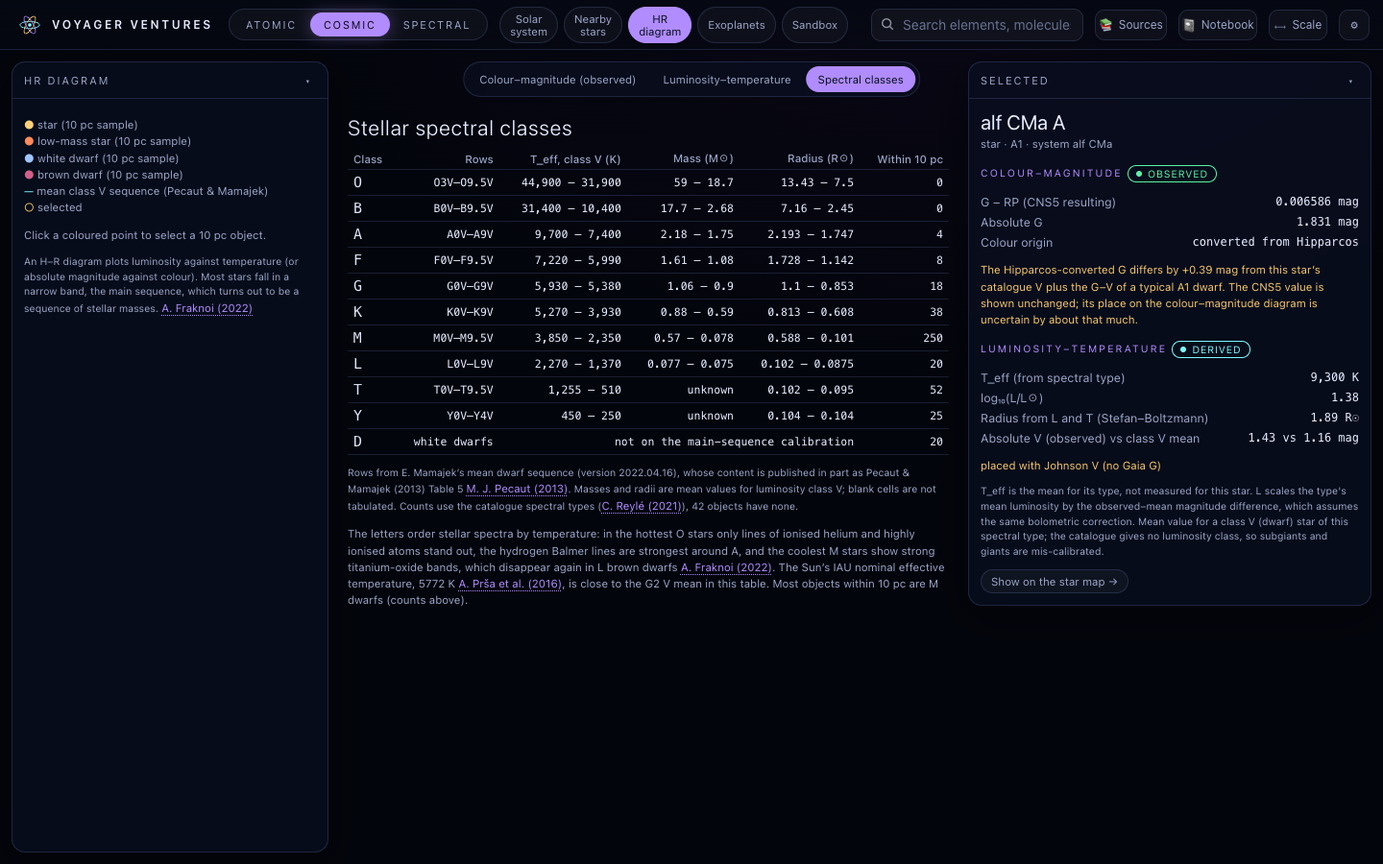
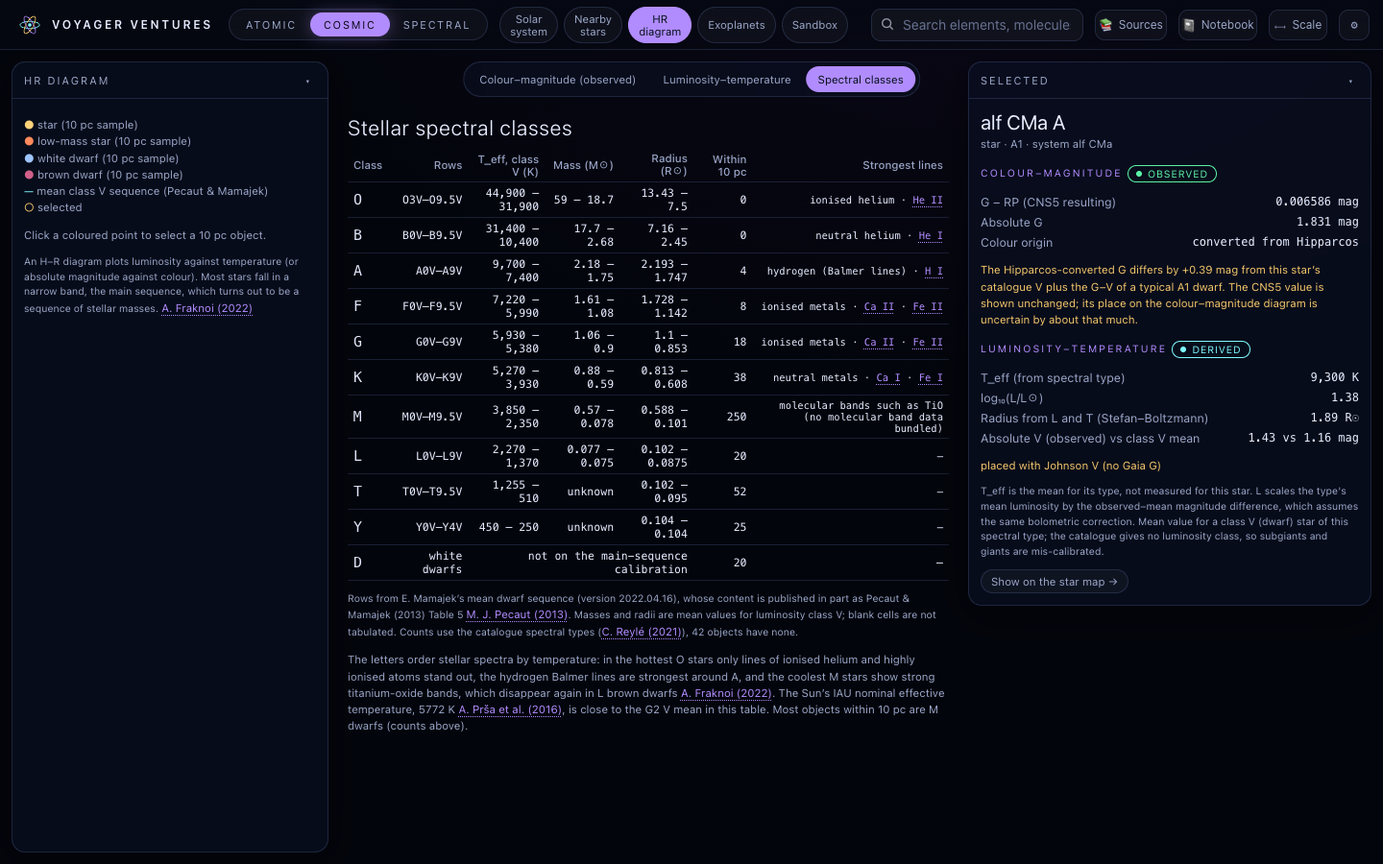
Phase 5 Gate 5.4: stellar spectra, thermal radiation and class-line links
Planck model per star at its class V mean T_eff (λ_max, σT⁴, caveats);
registry: stellar classes O–K → NIST line spectra (OpenStax §17.3),
star → class and star → blackbody edges registered on catalogue load,
shown in both directions (atlas blackbody tab with star=, Lines tab,
class table). RelatedLinks limit/first. 4 science tests, e2e test 57.

Claude-Session: https://claude.ai/code/session_012kk9KUmhZje176cLaiTwHQ

Changed region(s): [[0.25, 0.1556, 0.6875, 0.84]]

diff --git a/src/modes/cosmic/star-systems/StarsView.tsx b/src/modes/cosmic/star-systems/StarsView.tsx
@@ -11,6 +11,9 @@ import { navigate, setQuery, useRoute } from '@/shared/router';
 import { KV, Loading, Panel, ProvenanceBadge } from '@/ui/components';
 import { SourceLinks } from '@/ui/SourcesView';
 import { RelatedLinks } from '@/ui/RelatedLinks';
+import { LinePlot } from '@/ui/plots';
+import { SIGMA_SB, peakWavelength, planckLambda } from '@/core/physics/em/em';
+import { blackbodyRoute, modelTeff } from './starRegistry';
 import { StarScene, type ScenePoint, type StarFrame } from './StarScene';
 import {
   PC_IN_LY, absoluteMag, adsUrl, calibrateDwarf, crossMatch, displayColor, distancePc, distanceRangePc, galacticLB, icrsCartesian,
@@ -33,6 +36,35 @@ function framePos(o: { ra: number | null; dec: number | null; plx: number | null
   if (d === null || o.ra === null || o.dec === null) return null;
   const v = icrsCartesian(o.ra, o.dec, d);
   return frame === 'galactic' ? icrsToGalactic(v) : v;
+}
+
+/** Planck model at the class V mean T_eff (Gate 5.4): a model of the continuum, not the observed spectrum. */
+function ThermalModel({ o }: { o: NearbyObject }) {
+  const T = modelTeff(o);
+  const pts = useMemo(() => {
+    if (T === null) return [] as [number, number][];
+    const lp = peakWavelength(T), peak = planckLambda(lp, T);
+    return Array.from({ length: 160 }, (_, i) => { const l = 0.1e-6 * 10 ** ((i * 2.2) / 159); return [l * 1e6, planckLambda(l, T) / peak] as [number, number]; });
+  }, [T]);
+  if (T === null) return null;
+  const lp = peakWavelength(T);
+  const cls = parseSpectralType(o.spt)?.cls;
+  return (
+    <>
+      <div className="section-title">Thermal radiation model <ProvenanceBadge cls="derived" title="Planck law at the class V mean T_eff (CODATA constants)" /></div>
+      <LinePlot ariaLabel="Blackbody model of this star" width={360} height={150} xLog series={[{ points: pts, color: '#f5c76b' }]} xLabel="vacuum wavelength λ (µm)" yLabel="B_λ / B_λ,max" yDomain={[0, 1.25]} vLines={[{ x: 0.38, label: '380', color: 'rgba(180,140,255,0.6)' }, { x: 0.75, label: '750', color: 'rgba(255,120,120,0.6)' }]} markers={[{ x: lp * 1e6, y: 1, label: `peak ${(lp * 1e9).toFixed(0)} nm` }]} />
+      <dl className="kv" aria-label="Thermal model">
+        <KV k="Model temperature (class V mean T_eff)" v={T} unit="K" sig={4} />
+        <KV k="Peak wavelength λ_max = b/T" v={lp * 1e9} unit="nm" sig={4} />
+        <KV k="Surface flux σT⁴" v={SIGMA_SB * T ** 4} unit="W/m²" sig={4} />
+      </dl>
+      <p className="note" style={{ fontSize: 10.5 }}>Dashed lines mark 380 and 750 nm. A real stellar spectrum is not a blackbody: it carries absorption lines and, in M dwarfs, strong molecular (TiO) bands <SourceLinks ids={['openstax-astronomy-2e']} />. Planck law and constants: <SourceLinks ids={['codata-2018']} />.</p>
+      <div className="chip-row">
+        <button className="chip" onClick={() => navigate(blackbodyRoute(T, o.seq).slice(1))}>Open the {T} K blackbody in the Spectral atlas →</button>
+      </div>
+      {cls && <RelatedLinks id={`stellar-class:${cls}`} title={`Typical lines of class ${cls}`} filter={(r) => r.type === 'absorbs'} />}
+    </>
+  );
 }
 
 function ObjectPanel({ o, all, cns }: { o: NearbyObject; all: NearbyObject[]; cns: CnsStar | undefined }) {
@@ -106,6 +138,8 @@ function ObjectPanel({ o, all, cns }: { o: NearbyObject; all: NearbyObject[]; cn
           <p className="note" style={{ fontSize: 10.5 }}>{cal.exact ? 'Table row' : `Interpolated between ${cal.between!.join(' and ')}`}. {cal.caveats.join(' ')} <SourceLinks ids={['pecaut-mamajek-2013']} /></p>
         </> : <p className="note">Not calibrated: {o.type === 'white dwarf' ? 'the dwarf sequence does not cover white dwarfs' : !spt ? 'no spectral type' : spt.limit ? 'only a bound on the type is known' : spt.subdwarf ? 'subdwarfs (metal-poor) lie below the dwarf sequence' : 'type outside the table'}.</p>}
       </>}
+
+      {o.type !== 'exoplanet' && <ThermalModel o={o} />}
 
       {members.length > 1 && <>
         <div className="section-title">System {o.system} · {members.length} catalogue objects</div>

diff --git a/src/modes/cosmic/star-systems/HrView.tsx b/src/modes/cosmic/star-systems/HrView.tsx
@@ -9,6 +9,7 @@ import { KV, Loading, Panel, ProvenanceBadge } from '@/ui/components';
 import { ScatterPlot, type ScatterPoint } from '@/ui/plots';
 import { SourceLinks } from '@/ui/SourcesView';
 import { DWARF_SEQUENCE, DWARF_SEQUENCE_VERSION, crossMatch, loadCns5, loadTenParsec, parseSpectralType, type CnsStar, type NearbyObject, type ObjectType } from './stars';
+import { CLASS_LINES } from '@/shared/scientific-relationships/registry';
 import { MK_CLASSES, TEFF_SUN_NOMINAL, cmdPoint, convertedGCheck, hrPoint, logLForRadius, type HrStar } from './hr';
 
 const TYPE_COLOR: Record<ObjectType, string> = { star: '#ffd27a', 'low-mass star': '#ff8a5c', 'white dwarf': '#9ec5ff', 'brown dwarf': '#d0608a', exoplanet: '#5cf2a6', unknown: '#888' };
@@ -56,7 +57,7 @@ function SelectedPanel({ o, hr, cns }: { o: NearbyObject; hr: HrStar | { reason:
   );
 }
 
-function ClassTable({ ten }: { ten: NearbyObject[] }) {
+function ClassTable({ ten, hl }: { ten: NearbyObject[]; hl: string | null }) {
   const counts = useMemo(() => {
     const c: Record<string, number> = {};
     for (const o of ten) { if (o.type === 'exoplanet') continue; const p = parseSpectralType(o.spt); const k = p?.kind === 'white-dwarf' ? 'D' : p?.cls ?? '?'; c[k] = (c[k] ?? 0) + 1; }
@@ -65,19 +66,20 @@ function ClassTable({ ten }: { ten: NearbyObject[] }) {
   return (
     <>
       <table className="table-mini" aria-label="Spectral classes" style={{ width: '100%' }}>
-        <thead><tr><th>Class</th><th>Rows</th><th>T_eff, class V (K)</th><th>Mass (M☉)</th><th>Radius (R☉)</th><th>Within 10 pc</th></tr></thead>
+        <thead><tr><th>Class</th><th>Rows</th><th>T_eff, class V (K)</th><th>Mass (M☉)</th><th>Radius (R☉)</th><th>Within 10 pc</th><th>Strongest lines</th></tr></thead>
         <tbody>
           {MK_CLASSES.map((k) => (
-            <tr key={k.cls}>
+            <tr key={k.cls} className={hl === k.cls ? 'active' : ''} style={hl === k.cls ? { background: 'rgba(177,140,255,0.16)' } : undefined}>
               <td style={{ fontFamily: 'var(--mono)', fontSize: 15 }}>{k.cls}</td>
               <td>{k.first}–{k.last}</td>
               <td>{k.teffHot.toLocaleString('en-US')} – {k.teffCool.toLocaleString('en-US')}</td>
               <td>{k.massHi !== null ? `${k.massHi} – ${k.massLo}` : 'unknown'}</td>
               <td>{k.rHi !== null ? `${k.rHi} – ${k.rLo}` : 'unknown'}</td>
               <td>{counts[k.cls] ?? 0}</td>
+              <td style={{ fontSize: 10.5 }}>{CLASS_LINES[k.cls] ? <>{CLASS_LINES[k.cls].note}{CLASS_LINES[k.cls].spectra.map((s) => <span key={s}> · <button className="link-btn" onClick={() => navigate(`/spectral?tab=lines&spec=${encodeURIComponent(s)}`)}>{s}</button></span>)}</> : '—'}</td>
             </tr>
           ))}
-          <tr><td style={{ fontFamily: 'var(--mono)', fontSize: 15 }}>D</td><td>white dwarfs</td><td colSpan={3} className="unknown">not on the main-sequence calibration</td><td>{counts.D ?? 0}</td></tr>
+          <tr><td style={{ fontFamily: 'var(--mono)', fontSize: 15 }}>D</td><td>white dwarfs</td><td colSpan={3} className="unknown">not on the main-sequence calibration</td><td>{counts.D ?? 0}</td><td>—</td></tr>
         </tbody>
       </table>
       <p className="note" style={{ fontSize: 10.5 }}>Rows from E. Mamajek’s mean dwarf sequence (version {DWARF_SEQUENCE_VERSION}), whose content is published in part as Pecaut &amp; Mamajek (2013) Table 5 <SourceLinks ids={['pecaut-mamajek-2013']} />. Masses and radii are mean values for luminosity class V; blank cells are not tabulated. Counts use the catalogue spectral types (<SourceLinks ids={['reyle-2021']} />), {counts['?'] ?? 0} objects have none.</p>
@@ -155,7 +157,7 @@ export default function HrView() {
         </>}
         {d === 'classes' && <>
           <div className="stage-head"><h1>Stellar spectral classes</h1></div>
-          <ClassTable ten={ten} />
+          <ClassTable ten={ten} hl={query.get('cls')} />
         </>}
       </div>
       <Panel id="hr-controls" className="left-panel" title="HR diagram">

diff --git a/tests/science/stars.test.ts b/tests/science/stars.test.ts
@@ -295,3 +295,48 @@ describe('exoplanets within 10 pc', () => {
     expect(Math.max(...r)).toBeCloseTo(3, 9);
   });
 });
+
+// ---------------------------------------------------------------- Gate 5.4: stellar spectra and relationships
+import { registerStars, modelTeff, blackbodyId } from '@/modes/cosmic/star-systems/starRegistry';
+import { CLASS_LINES, NIST_SPECTRA, allEntities, allRelationships, getEntity, relationshipsFrom, relationshipsTo, spectrumId } from '@/shared/scientific-relationships/registry';
+import { getSource } from '@/shared/sources/sources';
+import { peakWavelength } from '@/core/physics/em/em';
+
+describe('stellar spectra and cross-links (Gate 5.4)', () => {
+  registerStars(OBJ);
+  it('class → line edges only point at bundled NIST spectra and follow O→He II, B→He I, A→H I', () => {
+    for (const { spectra } of Object.values(CLASS_LINES)) for (const s of spectra) expect(NIST_SPECTRA, s).toContain(s);
+    expect(relationshipsFrom('stellar-class:O').map((r) => r.to)).toEqual([spectrumId('He II')]);
+    expect(relationshipsFrom('stellar-class:B').map((r) => r.to)).toEqual([spectrumId('He I')]);
+    expect(relationshipsFrom('stellar-class:A').map((r) => r.to)).toEqual([spectrumId('H I')]);
+    expect(relationshipsFrom('stellar-class:M').filter((r) => r.type === 'absorbs')).toHaveLength(0); // TiO bands: no data, no edge
+  });
+  it('every star with a calibrated T_eff links to a Planck model at that temperature, and back', () => {
+    const prox = byName('Proxima Cen');
+    const T = modelTeff(prox)!;
+    expect(T).toBe(2930);
+    const r = relationshipsFrom(`star:${prox.seq}`).find((x) => x.type === 'has-spectrum')!;
+    expect(r.to).toBe(blackbodyId(2930));
+    expect(getEntity(r.to)!.route).toMatch(/#\/spectral\?tab=blackbody&T=2930/);
+    expect(relationshipsTo(blackbodyId(2930)).some((x) => x.from === `star:${prox.seq}`)).toBe(true);
+    expect(relationshipsFrom(`star:${prox.seq}`).some((x) => x.to === 'stellar-class:M')).toBe(true);
+    // a Proxima-like 2930 K blackbody peaks in the near infrared (≈ 989 nm), not in the visible
+    expect(peakWavelength(T) * 1e9).toBeCloseTo(989, 0);
+  });
+  it('white dwarfs and planets get no blackbody model; stars of class G reach Ca II through their class', () => {
+    expect(modelTeff(OBJ.find((o) => o.type === 'white dwarf')!)).toBeNull();
+    expect(modelTeff(OBJ.find((o) => o.type === 'exoplanet')!)).toBeNull();
+    const gStar = OBJ.find((o) => o.spt?.startsWith('G2'))!;
+    expect(relationshipsFrom(`star:${gStar.seq}`).some((r) => r.to === 'stellar-class:G')).toBe(true);
+    expect(relationshipsTo(spectrumId('Ca II')).some((r) => r.from === 'stellar-class:G')).toBe(true);
+  });
+  it('after star registration every edge is sourced, both ends exist and available entities have routes', () => {
+    for (const r of allRelationships()) {
+      expect(getEntity(r.from), r.from).toBeDefined();
+      expect(getEntity(r.to), `${r.from} → ${r.to}`).toBeDefined();
+      if (!r.from.startsWith('reaction:')) expect(getSource(r.source), `${r.from} → ${r.to}: ${r.source}`).toBeDefined();
+    }
+    for (const e of allEntities()) expect(e.status === 'available' ? !!e.route : e.route === null, e.id).toBe(true);
+    expect(allEntities().filter((e) => e.kind === 'star').length).toBeGreaterThan(450);
+  });
+});

diff --git a/src/modes/spectral/atlas/SpectralAtlas.tsx b/src/modes/spectral/atlas/SpectralAtlas.tsx
@@ -25,7 +25,7 @@ import { wavelengthToColor } from '@/modes/atomic/atoms/spectrum';
 import { isForbidden, loadNistSpectra, type NistSpectra } from '@/modes/atomic/atoms/nistSpectra';
 import { elementBySymbol } from '@/modes/atomic/atoms/elements';
 import { RelatedLinks } from '@/ui/RelatedLinks';
-import { spectrumId } from '@/shared/scientific-relationships/registry';
+import { spectrumId , getEntity } from '@/shared/scientific-relationships/registry';
 
 const C = CONSTANTS.c.value;
 type Tab = 'spectrum' | 'wave' | 'blackbody' | 'lines';
@@ -372,6 +372,10 @@ function WaveTab({ ph, pol, E0, setE0 }: { ph: ReturnType<typeof photon>; pol: P
 
 // ---------------------------------------------------------------- blackbody
 function BlackbodyTab({ T, lambda, onPick }: { T: number; lambda: number; onPick: (l: number) => void }) {
+  const starSeq = Number(useRoute().query.get('star')) || null;
+  const [, bump] = useState(0);
+  // deep link from a star: load the 10 pc catalogue so the star ↔ blackbody links are registered
+  useEffect(() => { if (starSeq !== null) import('@/modes/cosmic/star-systems/stars').then((m) => m.loadTenParsec()).then(() => bump((x) => x + 1)); }, [starSeq]);
   const lp = peakWavelength(T), np = peakFrequency(T);
   // plot unit: W sr⁻¹ m⁻² nm⁻¹ with an SI prefix chosen so the peak lies in [1, 1000)
   const peakSI = planckLambda(lp, T) * 1e-9;
@@ -402,8 +406,9 @@ function BlackbodyTab({ T, lambda, onPick }: { T: number; lambda: number; onPick
       </dl>
       <div className="chip-row"><button className="chip" onClick={() => onPick(lp)}>Select λ_max</button><button className="chip" onClick={() => onPick(C / np)}>Select c/ν_max</button></div>
       <p className="note" style={{ fontSize: 10.5 }}>Planck’s law for an ideal blackbody, with b and σ derived from h, c and k (they match the CODATA listed values exactly). Real bodies are not perfect blackbodies. The Sun’s spectrum has absorption lines and departs from a single 5772 K curve, so this is a model, not the observed solar spectrum. <SourceLinks ids={['codata-2018', 'iau-2015-b3', 'fixsen-2009']} /></p>
-      {Math.abs(T - 5772) < 0.5 && <RelatedLinks id="spectrum:blackbody-5772" />}
-      <ProvenanceBadge cls={T === 5772 || T === 2.72548 ? 'derived' : 'hypothetical'} title={T === 5772 || T === 2.72548 ? 'Planck law at a sourced temperature' : 'Planck law at a user-chosen temperature'} />
+      {getEntity(`spectrum:blackbody-${Math.round(T)}`) && Math.abs(T - Math.round(T)) < 1e-9 && <RelatedLinks id={`spectrum:blackbody-${Math.round(T)}`} limit={6} first={starSeq !== null ? `star:${starSeq}` : undefined} />}
+      {starSeq !== null && <p className="note" style={{ fontSize: 10.5 }}>Opened from a nearby star: {T} K is the class V mean T_eff for its spectral type (Pecaut &amp; Mamajek), so this curve models its continuum only. <SourceLinks ids={['pecaut-mamajek-2013']} /></p>}
+      <ProvenanceBadge cls={T === 5772 || T === 2.72548 || starSeq !== null ? 'derived' : 'hypothetical'} title={T === 5772 || T === 2.72548 || starSeq !== null ? 'Planck law at a sourced temperature' : 'Planck law at a user-chosen temperature'} />
     </div>
   );
 }

diff --git a/tests/e2e/phase5.spec.ts b/tests/e2e/phase5.spec.ts
@@ -118,3 +118,27 @@ test('56 exoplanets: published orbits with uncertainty bands, element table, che
   expect(await mp.locator('circle').count()).toBeGreaterThan(60);
   await shot(page, '56b-gj876-mass-period', 'GJ 876 (four planets, two of them in resonance) with the mass–period diagram of all planets within 10 pc against the Solar System planets; hollow points are minimum masses.');
 });
+
+// ---------------- Gate 5.4 ----------------
+test('57 stellar spectra: Planck model per star, star ↔ blackbody and class ↔ NIST line links in both directions', async ({ page }) => {
+  await page.goto('/#/cosmic/stars?sel=1');
+  const info = page.locator('.right-panel');
+  await expect(info.getByLabel('Thermal model')).toContainText('989');
+  await expect(info.getByRole('img', { name: 'Blackbody model of this star' })).toBeVisible();
+  await expect(info).toContainText('not a blackbody');
+  await expect(info.locator('.related-links').first()).toContainText('Class M stars');
+  await info.getByLabel('Thermal model').scrollIntoViewIfNeeded();
+  await shot(page, '57a-star-thermal-model', 'Proxima Centauri: Planck model at the M5.5 V mean T_eff (2930 K, peak 989 nm in the near infrared) with the visible range marked, the caveat that real M-dwarf spectra are dominated by molecular bands, and registry links to its class and its blackbody model.');
+  await info.getByRole('button', { name: /Open the 2930 K blackbody in the Spectral atlas/ }).click();
+  await expect(page).toHaveURL(/#\/spectral\?tab=blackbody&T=2930&star=1/);
+  const back = page.locator('.related-links[data-entity="spectrum:blackbody-2930"]');
+  await expect(back).toContainText('Proxima Cen');
+  await expect(page.locator('main')).toContainText('Opened from a nearby star');
+  await shot(page, '57b-atlas-from-star', 'Spectral atlas opened from Proxima Centauri: the 2930 K Planck curve, the note that it models the continuum at the class mean temperature, and reverse links to every 10 pc star modelled at this temperature.');
+  await page.goto('/#/spectral?tab=lines&spec=Ca%20II');
+  await expect(page.locator(`.related-links[data-entity="spectrum:Ca-II"]`)).toContainText('Class G stars');
+  await page.locator(`.related-links[data-entity="spectrum:Ca-II"]`).getByRole('button', { name: 'Class G stars' }).click();
+  await expect(page).toHaveURL(/stars\/hr\?d=classes&cls=G/);
+  await expect(page.getByRole('table', { name: 'Spectral classes' })).toContainText('ionised metals');
+  await shot(page, '57c-classes-lines', 'Spectral-class table reached from the Ca II lines in the Spectral atlas, with class G highlighted and each class linked to the NIST line spectra that dominate it (OpenStax Astronomy 2e §17.3).');
+});

diff --git a/src/shared/scientific-relationships/registry.ts b/src/shared/scientific-relationships/registry.ts
@@ -15,7 +15,7 @@ import { MATERIALS } from '@/modes/atomic/materials/materials';
 import { MEDIA } from '@/core/physics/waves/media';
 import { SOURCES } from '@/shared/sources/sources';
 
-export type EntityKind = 'element' | 'molecule' | 'reaction' | 'material' | 'body' | 'wave' | 'process' | 'context' | 'structure' | 'instrument' | 'spectrum' | 'field';
+export type EntityKind = 'element' | 'molecule' | 'reaction' | 'material' | 'body' | 'wave' | 'process' | 'context' | 'structure' | 'instrument' | 'spectrum' | 'field' | 'star' | 'stellar-class';
 
 export interface Entity {
   id: string; // "kind:local-id"
@@ -120,6 +120,25 @@ for (const [id, label, route] of [
   ['field:heat-diffusion', 'Temperature field (heat diffusion)', '#/spectral/fields?layers=heat'],
 ] as const) registerEntity(E(id, label, route));
 registerRelationship({ from: 'field:plane-wave-ex', to: 'wave:em-visible', type: 'explains', context: 'same analytic plane wave as the atlas', source: 'codata-2018' });
+
+// 5. Stellar classes (Gate 5.4) → the atomic line spectra that dominate them (OpenStax Astronomy 2e §17.3:
+// ionised helium peaks at O, neutral helium at B, hydrogen at about A, ionised metals between F and G,
+// neutral metals at K, molecules beyond M). Calcium and iron stand in for "metals" because both
+// ionisation stages are in the bundled NIST set. Star entities are registered when the 10 pc
+// catalogue loads (src/modes/cosmic/star-systems/starRegistry.ts).
+export const CLASS_LINES: Record<string, { spectra: string[]; note: string }> = {
+  O: { spectra: ['He II'], note: 'ionised helium' },
+  B: { spectra: ['He I'], note: 'neutral helium' },
+  A: { spectra: ['H I'], note: 'hydrogen (Balmer lines)' },
+  F: { spectra: ['Ca II', 'Fe II'], note: 'ionised metals' },
+  G: { spectra: ['Ca II', 'Fe II'], note: 'ionised metals' },
+  K: { spectra: ['Ca I', 'Fe I'], note: 'neutral metals' },
+  M: { spectra: [], note: 'molecular bands such as TiO (no molecular band data bundled)' },
+};
+for (const [cls, { spectra, note }] of Object.entries(CLASS_LINES)) {
+  registerEntity(E(`stellar-class:${cls}`, `Class ${cls} stars`, `#/cosmic/stars/hr?d=classes&cls=${cls}`));
+  for (const spec of spectra) registerRelationship({ from: `stellar-class:${cls}`, to: spectrumId(spec), type: 'absorbs', context: `strongest lines: ${note}`, source: 'openstax-astronomy-2e' });
+}
 
 export const getEntity = (id: string) => REGISTRY.get(id);
 export const allEntities = () => [...REGISTRY.values()];

diff --git a/src/modes/cosmic/star-systems/starRegistry.ts b/src/modes/cosmic/star-systems/starRegistry.ts
@@ -1,0 +1,35 @@
+/**
+ * Registers 10 pc stars in the scientific-relationship registry once the catalogue is loaded
+ * (Gate 5.4): star → its MK class, and star → a Planck spectrum at its class V mean T_eff (a model,
+ * not the observed spectrum). Reverse links come from the same edges (RelatedLinks).
+ */
+import { getEntity, registerEntity, registerRelationship } from '@/shared/scientific-relationships/registry';
+import { calibrateDwarf, parseSpectralType, type NearbyObject } from './stars';
+
+export const blackbodyId = (T: number) => `spectrum:blackbody-${Math.round(T)}`;
+export const blackbodyRoute = (T: number, seq?: number) => `#/spectral?tab=blackbody&T=${Math.round(T)}${seq !== undefined ? `&star=${seq}` : ''}`;
+/** Class V mean T_eff for a catalogue object, rounded to 1 K, or null. */
+export function modelTeff(o: NearbyObject): number | null {
+  if (o.type === 'exoplanet' || o.type === 'white dwarf') return null;
+  const t = calibrateDwarf(parseSpectralType(o.spt))?.values.Teff ?? null;
+  return t === null ? null : Math.round(t);
+}
+
+let done = false;
+export function registerStars(objs: NearbyObject[]) {
+  if (done) return;
+  done = true;
+  for (const o of objs) {
+    if (o.type === 'exoplanet') continue;
+    const id = `star:${o.seq}`;
+    registerEntity({ id, kind: 'star', label: o.common && o.common !== o.name ? `${o.name} (${o.common})` : o.name, route: `#/cosmic/stars?sel=${o.seq}`, status: 'available' });
+    const p = parseSpectralType(o.spt);
+    if (p?.kind === 'mk' && p.cls && getEntity(`stellar-class:${p.cls}`)) registerRelationship({ from: id, to: `stellar-class:${p.cls}`, type: 'part-of', context: `spectral type ${o.spt}`, source: 'reyle-2021' });
+    const T = modelTeff(o);
+    if (T !== null) {
+      const bb = blackbodyId(T);
+      if (!getEntity(bb)) registerEntity({ id: bb, kind: 'spectrum', label: `Planck spectrum at ${T} K`, route: blackbodyRoute(T, o.seq), status: 'available', note: 'Ideal blackbody at a class V mean T_eff; real stellar spectra have absorption lines and bands' });
+      registerRelationship({ from: id, to: bb, type: 'has-spectrum', context: 'blackbody model at the class V mean T_eff', source: 'pecaut-mamajek-2013' });
+    }
+  }
+}

diff --git a/src/ui/RelatedLinks.tsx b/src/ui/RelatedLinks.tsx
@@ -14,14 +14,18 @@ const VERB: Partial<Record<Relationship['type'], [string, string]>> = {
   emits: ['emits', 'emitted by'],
   explains: ['explains', 'explained by'],
   'participates-in': ['part of', 'involves'],
+  absorbs: ['absorbs', 'absorbed by'],
+  'part-of': ['member of', 'includes'],
 };
 
-export function RelatedLinks({ id, title = 'Related across modes', filter }: { id: string; title?: string | null; filter?: (r: Relationship, dir: 'out' | 'in') => boolean }) {
-  const rows = [
+export function RelatedLinks({ id, title = 'Related across modes', filter, limit, first }: { id: string; title?: string | null; filter?: (r: Relationship, dir: 'out' | 'in') => boolean; limit?: number; first?: string }) {
+  const all = [
     ...relationshipsFrom(id).filter((r) => !filter || filter(r, 'out')).map((r) => ({ r, other: r.to, verb: VERB[r.type]?.[0] ?? r.type })),
     ...relationshipsTo(id).filter((r) => !filter || filter(r, 'in')).map((r) => ({ r, other: r.from, verb: VERB[r.type]?.[1] ?? r.type })),
   ];
-  if (!rows.length) return null;
+  if (!all.length) return null;
+  if (first) all.sort((a, b) => Number(b.other === first) - Number(a.other === first));
+  const rows = limit ? all.slice(0, limit) : all;
   return (
     <div className="related-links" data-entity={id}>
       {title && <div className="section-title">{title}</div>}
@@ -37,6 +41,7 @@ export function RelatedLinks({ id, title = 'Related across modes', filter }: { i
             </li>
           );
         })}
+        {rows.length < all.length && <li style={{ color: 'var(--text-faint)', listStyle: 'none' }}>… and {all.length - rows.length} more</li>}
       </ul>
     </div>
   );

diff --git a/src/modes/cosmic/star-systems/stars.ts b/src/modes/cosmic/star-systems/stars.ts
@@ -8,6 +8,7 @@
  */
 import { CONSTANTS, LIGHT_YEAR_M, PARSEC_M } from '@/core/constants/constants';
 import dwarfSeq from '@datasets/astronomical/mamajek-dwarf-sequence.json';
+import { registerStars } from './starRegistry';
 
 // ------------------------------------------------------------------ types
 export type ObjectType = 'star' | 'low-mass star' | 'white dwarf' | 'brown dwarf' | 'exoplanet' | 'unknown';
@@ -39,7 +40,11 @@ export interface CnsStar {
 let tenPromise: Promise<NearbyObject[]> | null = null;
 let cnsPromise: Promise<CnsStar[]> | null = null;
 export function loadTenParsec(): Promise<NearbyObject[]> {
-  tenPromise ??= import('@datasets/astronomical/nearby-stars-10pc.json').then((m) => ((m.default ?? m) as unknown as { objects: NearbyObject[] }).objects);
+  tenPromise ??= import('@datasets/astronomical/nearby-stars-10pc.json').then((m) => {
+    const objs = ((m.default ?? m) as unknown as { objects: NearbyObject[] }).objects;
+    registerStars(objs);
+    return objs;
+  });
   return tenPromise;
 }
 export function loadCns5(): Promise<CnsStar[]> {

diff --git a/DEVELOPMENT_ROADMAP.md b/DEVELOPMENT_ROADMAP.md
@@ -14,7 +14,7 @@ Treat each phase below as a proposal. Re-assess numerical methods, dataset acces
 | **2 Molecular Laboratory** | builder, two validators, VGFF-1 optimisation, 140-molecule library, PubChem search, formats, comparison, NIST spectra | **Complete** |
 | **3 Physics Sandbox** | N-body Explore/Experiment/Compare, molecular dynamics, instruments, IndexedDB notebook | **Complete** |
 | **4 Matter, Materials, Energy & Wave Foundations** | 4.1 reactions · 4.2 thermochemistry · 4.3 crystals & materials · 4.4 phases · 4.5 wave engine · 4.6 Spectral Mode · 4.7 FIELDS + cross-mode links | **Complete** (Gates 4.1–4.7) |
-| **5 Interstellar & Stellar** | 5.1 nearby stars · 5.2 stellar classes & HR diagram · 5.3 exoplanets · 5.4 stellar spectra & thermal radiation · 5.5 cross-links | **In progress** (Gates 5.1–5.3 done) |
+| **5 Interstellar & Stellar** | 5.1 nearby stars · 5.2 stellar classes & HR diagram · 5.3 exoplanets · 5.4 stellar spectra & thermal radiation · 5.5 cross-links | **In progress** (Gates 5.1–5.4 done) |
 | 6 Deep Space & Invisible Gravity | nebulae, galaxies, compact objects, black holes, relativity foundations, lensing, JWST/Hubble galleries, rotation curves, first dark-matter halo models | Planned |
 | 7 Cosmology & Observable Universe | clusters, large-scale structure, distances, CMB, dark-matter evidence explorer, dark energy, expansion history, GWOSC observations | Planned (FLRW module + tests exist) |
 | 8 Unified Scale & Relationships | universal scale navigation, relationship registry UI, integrated spectroscopy, shared instruments, unified notebook, pathways | Planned (registry started in 4.1) |
@@ -46,7 +46,7 @@ The astronomy roadmap (Phases 5–8) keeps its place. It is not postponed until 
 | 5.1 | Nearby-star catalogue: 10 pc sample (Reylé et al. 2021/2023) with per-value references, CNS5 to 20 pc, 3D map in galactic/ICRS frames (`#/cosmic/stars`), derived distance, M, v_t, dwarf calibrations, stellar scale level | **Done** |
 | 5.2 | Stellar classes and HR diagrams (`#/cosmic/stars/hr`): observed CMD to 20 pc, luminosity–temperature with constant-radius lines, Sun from IAU 2015 B3, MK class table, converted-photometry check | **Done** |
 | 5.3 | Exoplanets within 10 pc (`#/cosmic/stars/planets`): exoplanet.eu elements with uncertainties, face-on orbits with ±1σ bands, mass–period diagram with the Solar System, Kepler/JD/range checks | **Done** |
-| 5.4 | Stellar spectra and thermal radiation; star ↔ spectrum and element-line links | Planned |
+| 5.4 | Stellar spectra and thermal radiation: Planck model per star at its class mean T_eff, class ↔ NIST line spectra (OpenStax §17.3), star ↔ blackbody links shown in both directions in the Spectral atlas | **Done** |
 | 5.5 | Cross-links and portal check | Planned |
 
 If a gate turns out much larger than planned, it is split into documented sub-gates. Scientific quality is not reduced to make it fit.

diff --git a/SCIENTIFIC_MODELS.md b/SCIENTIFIC_MODELS.md
@@ -227,3 +227,9 @@ One `FieldLayer` interface (quantity, units, frame, resolution, sources, display
   * Eccentricities must lie in [0, 1) and inclinations in [0°, 180°].
 * **Orbit drawing:** each orbit is drawn face-on in its own plane, star at the focus, r(ν) = a(1−e²)/(1+e cos ν) rotated by ω. The band spans a ± 1σ. Missing e or ω gives a dashed placeholder shape or orientation. The orientation on the sky is not shown. Solar System comparison orbits use the JPL approximate elements.
 * *Validation (8 more tests in tests/science/stars.test.ts):* IAU nominal ratios; Kepler (Earth at 1 au to 1e-4, a ∝ P^{2/3}); the census matches the catalogue; published a agrees with Kepler within 15 % for > 90 % of planets; Proxima b P, a and minimum mass; JD plausibility; e/i ranges; ellipse geometry (closure, periastron, apastron, ω rotation).
+
+## 16. Stellar spectra and thermal radiation (Phase 5, Gate 5.4)
+* **Planck model per star (Derived):** B_λ at the class V mean T_eff of the star's spectral type (rounded to 1 K), with λ_max = b/T and σT⁴ from the existing `em.ts` (CODATA). It models the continuum only. The panel states that real spectra carry absorption lines and, in M dwarfs, molecular TiO bands (OpenStax §17.3). White dwarfs, planets and uncalibratable types get no model.
+* **Class → lines:** following OpenStax §17.3, ionised helium peaks at O, neutral helium at B, hydrogen at about A, ionised metals between F and G, neutral metals at K, and molecules beyond M. The registry links O → He II, B → He I, A → H I, F/G → Ca II and Fe II, and K → Ca I and Fe I. Calcium and iron stand in for "metals"; both ionisation stages are in the bundled NIST set. M has no line edge, because molecular bands are not bundled.
+* **Registry:** star entities are registered when the 10 pc catalogue loads. Edges: star → class (*part-of*, from the catalogue spectral type) and star → Planck model (*has-spectrum*, from the calibration). Reverse links appear in the Spectral atlas (blackbody tab opened with `star=`, limited to 6 with the originating star first) and on the Lines tab (classes that absorb in that spectrum).
+* *Validation (4 more tests):* class edges only target bundled NIST spectra and follow O/B/A as stated, with no M edge; Proxima → 2930 K model and back, with peak 989 nm; refusals for white dwarfs and planets; registry integrity after registering more than 450 stars.

diff --git a/BUILD_LOG.md b/BUILD_LOG.md
@@ -170,3 +170,10 @@ Findings:
 2. **Data errors caught by a test:** four periastron times in the compilation are not valid Julian dates (Proxima b 245813.5, Teegarden's Star c, HD 20794 b, GJ 849 b). They are shown as unknown, with a warning.
 3. Name matching needed host-plus-letter fallbacks (Lalande 21185 b is HD 95735 b; GJ 393 b is BD+01 2447 b) and apostrophe handling ("Teegarden's b"). Three planets stay unmatched rather than being guessed (one letter differs and one is disputed).
 4. Screenshot review: the Solar System overlay forced a 1.7 au view that shrank close-in systems, and Earth's orbit was missing (JPL lists the Earth–Moon barycentre). The view now always includes Mercury but no more, and Earth is drawn.
+
+## 2026-11-26 — Phase 5, Gate 5.4 (stellar spectra and thermal radiation)
+The registry gained `star` and `stellar-class` entity kinds. Class O–K → NIST line spectra edges follow OpenStax §17.3, and the Sun's class is checked against the same text ("the spectral class assigned to the Sun is G2"). New `starRegistry.ts` registers about 470 stars on catalogue load (star → class, star → Planck model). Star panel: a thermal-radiation section with a normalised Planck plot (380/750 nm marked), λ_max and σT⁴, an atlas button and the class's typical lines. Spectral atlas: the blackbody tab shows reverse links for any registered temperature (6 shown, originating star first) and loads the catalogue when opened with `star=`. The class table has a line column and highlighting from `cls=`. RelatedLinks gained `limit`/`first` and the verbs *absorbs* and *member of*. 4 new science tests (369 total) and e2e test 57.
+
+Findings:
+1. A 2930 K star peaks at 989 nm, in the near infrared. The panel marks the visible range so this is visible at a glance; it is not stated as a "colour".
+2. Screenshot review: the atlas listed every star sharing a temperature (30 or more for common M subtypes), so the list is now capped with "… and N more". The Planck plot's peak label was clipped (y range raised). Empty-string labels on reference lines gave duplicate React keys (now labelled 380/750).
